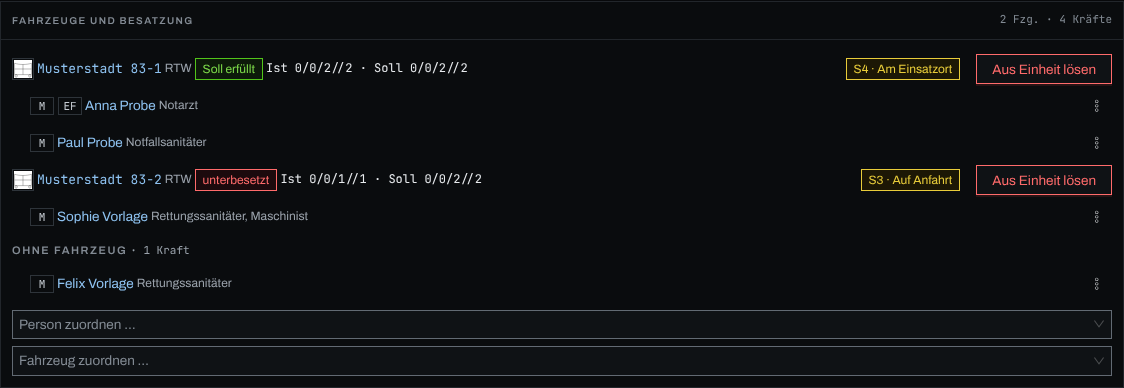
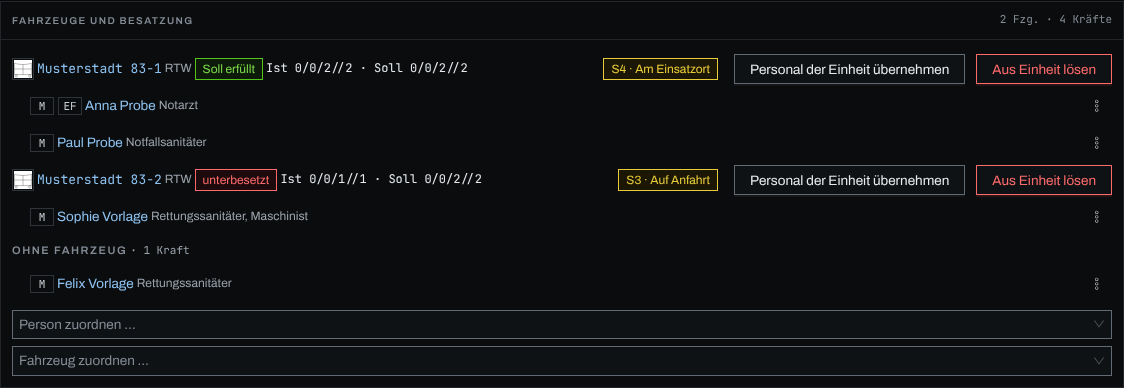
fix(einheit): Review-Befunde zur Übernahme im Paneel nachgezogen
- Nach dem Übernehmen räumt das Paneel einen alten Grund an den übernommenen Personen
  (`onUebernommen` am Dialog); fällt die Besatzung weg, schließt der Dialog und öffnet nicht von
  selbst wieder.
- Vitest: die Vorwahl zählt die sitzende Besatzung gegen das Soll, der Einheitsführer steht vorn.
- Gate 3 misst „Personal der Einheit übernehmen“ und die Abstände zu seinen Nachbarn; die
  Fokusverdeckung blendet den Devtools-Knopf aus, unter den das Menü der Person bei 390 px nun
  rollt, und verlangt einen klebenden Verdecker nur ab `md`.
- Bild „besatzung“ des Kapitels Einheiten neu erzeugt, Alt-Text und Ablauf genauer.

LLH-1267
Zunder: https://zunder.rubeen.dev/#/aufgabe/miwyxc08iu45hziuajh38l2y

Claude-Session: https://claude.ai/code/session_01G94TbRnePYDLx1196796N2

Changed region(s): [[0.5294, 0.1237, 0.8719, 0.2165], [0.5605, 0.433, 0.8719, 0.4948]]

diff --git a/frontend/src/pages/einheit/FahrzeugeBesatzung.test.tsx b/frontend/src/pages/einheit/FahrzeugeBesatzung.test.tsx
@@ -547,6 +547,50 @@ describe('FahrzeugeBesatzung · Personal der Einheit übernehmen (LLH-1267)', ()
     await waitFor(() => expect(bodies).toEqual([{ ep_ids: [7, 4] }]));
   });
 
+  it('die Vorwahl zählt die sitzende Besatzung gegen das Soll, der Einheitsführer steht vorn', async () => {
+    // 83-1: Soll 1/1/4, es sitzen F, UF, M. Frei sind ein Unterführer, Dora und der Führer der
+    // Einheit (ohne Position, als Mannschaft); drei Mannschaftsplätze sind offen, der UF-Platz nicht.
+    zeige({
+      e: einheit({ fuehrer_id: 8 }),
+      personal: [
+        ...PERSONAL,
+        person(7, 'Gerd Unter', { staerke_position: 'unterfuehrer' }),
+        person(8, 'Zora Leitung'),
+      ],
+    });
+    await userEvent.click(uebernehmenKnopf('83-1'));
+    const dialog = await screen.findByRole('dialog', { name: 'Personal der Einheit auf 83-1' });
+    expect(
+      within(dialog)
+        .getAllByRole('checkbox')
+        .map((c) => c.closest('label')?.textContent),
+    ).toEqual(['Zora Leitung', 'Gerd UnterUnterführer', 'Dora Ohne']);
+    expect(within(dialog).getByRole('checkbox', { name: /Zora Leitung/ })).toBeChecked();
+    expect(within(dialog).getByRole('checkbox', { name: /Gerd Unter/ })).not.toBeChecked();
+    expect(within(dialog).getByRole('checkbox', { name: /Dora Ohne/ })).toBeChecked();
+  });
+
+  it('nach dem Übernehmen ist ein alter Grund an der Person geräumt', async () => {
+    server.use(
+      http.post('/api/einsaetze/1/fahrzeuge/31/besatzung', () =>
+        HttpResponse.json({ error: 'Fahrzeug ist storniert' }, { status: 409 }),
+      ),
+      http.post(
+        '/api/einsaetze/1/fahrzeuge/30/besatzung',
+        () => new HttpResponse(null, { status: 204 }),
+      ),
+    );
+    zeige();
+    await userEvent.click(within(await oeffneMenue('Dora Ohne')).getByText('Auf 83-2'));
+    expect(
+      await within(personZeile('Dora Ohne')).findByText('Fahrzeug ist storniert'),
+    ).toBeVisible();
+    await userEvent.click(uebernehmenKnopf('83-1'));
+    const dialog = await screen.findByRole('dialog', { name: 'Personal der Einheit auf 83-1' });
+    await userEvent.click(within(dialog).getByRole('button', { name: 'Übernehmen' }));
+    await waitFor(() => expect(within(paneel()).queryByText('Fahrzeug ist storniert')).toBeNull());
+  });
+
   it('ohne freie Kräfte der Einheit gesperrt, der Grund steht daneben', () => {
     zeige({
       personal: PERSONAL.map((p) => (p.id === 4 ? { ...p, fahrzeug_id: 31 } : p)),

diff --git a/frontend/e2e/einheit-fixture.ts b/frontend/e2e/einheit-fixture.ts
@@ -96,7 +96,9 @@ export function kopfFelder(page: Page): { name: string; huelle: Locator; fokus: 
  * Menü der Person, die FMS-Wahl und „Aus Einheit lösen“ des Fahrzeugs und die beiden
  * Auswahlfelder, im Paneel „Material“ Lösen und Auswahl. `reihen` sind benachbarte Ziele (auf
  * einer Zeile oder Zeile über Zeile), `stapel` je Paneel die letzte Zeilenaktion über dem ersten
- * Auswahlfeld.
+ * Auswahlfeld. `uebernehmen` ist „Personal der Einheit übernehmen“ (LLH-1267): hier gesperrt, weil
+ * die einzige Kraft der Einheit schon sitzt; es hält die Trefffläche, ist aber kein Tabulatorstopp
+ * und steht deshalb nicht unter `ziele`.
  */
 export function zuordnungsZiele(page: Page, namen: { personal: string; fahrzeug: string }) {
   const besatzung = zuordnungsKarte(page, 'Fahrzeuge und Besatzung');
@@ -108,6 +110,9 @@ export function zuordnungsZiele(page: Page, namen: { personal: string; fahrzeug:
   const fahrzeugLoesen = fahrzeugZeile.getByRole('button', {
     name: 'Aus Einheit lösen',
     exact: true,
+  });
+  const uebernehmen = fahrzeugZeile.getByRole('button', {
+    name: 'Personal der Einheit übernehmen',
   });
   const personMenue = besatzung.getByRole('button', {
     name: `Aktionen zu Person ${namen.personal}`,
@@ -123,6 +128,7 @@ export function zuordnungsZiele(page: Page, namen: { personal: string; fahrzeug:
       'xpath=ancestor::*[contains(concat(" ", normalize-space(@class), " "), " ant-select ")][1]',
     );
   return {
+    uebernehmen,
     ziele: [
       { name: 'Person: Aktionen', ziel: personMenue, fokus: personMenue },
       { name: 'Fahrzeug: Status', ziel: fmsStatus, fokus: fmsStatus },
@@ -138,7 +144,8 @@ export function zuordnungsZiele(page: Page, namen: { personal: string; fahrzeug:
       { name: 'Materialzeile', zeile: material.locator('[data-lfh="material-am-ort-zeile"]') },
     ],
     reihen: [
-      [fmsStatus, fahrzeugLoesen],
+      [fmsStatus, uebernehmen],
+      [uebernehmen, fahrzeugLoesen],
       [huelle(personZuordnen), huelle(fahrzeugZuordnen)],
       // Zeile über Zeile: Funkrufname über dem Namen der Person, Lösen über ihrem Menü.
       [

diff --git a/frontend/e2e/gate3-trefflaeche.spec.ts b/frontend/e2e/gate3-trefflaeche.spec.ts
@@ -429,7 +429,8 @@ test('Einheit: Zeilenauslöser und Zuordnungszeilen halten 30 / 48 / 72 px und d
     const main = page.getByRole('main');
     const ziele = kopfFelder(page).map(({ name, huelle }) => ({ name, ziel: huelle }));
     const zuordnung = zuordnungsZiele(page, namen);
-    // Nachbarn auf einer Zeile: FMS-Wahl und rotes „Aus Einheit lösen“, die beiden Auswahlfelder.
+    // Nachbarn auf einer Zeile: FMS-Wahl, „Personal der Einheit übernehmen“ und rotes „Aus
+    // Einheit lösen“, die beiden Auswahlfelder.
     const aktionsreihen: Locator[][] = [...zuordnung.reihen];
     let kleinsteZeile = Infinity;
     let kleinsterAbstand = Infinity;
@@ -438,6 +439,8 @@ test('Einheit: Zeilenauslöser und Zuordnungszeilen halten 30 / 48 / 72 px und d
       kleinsteZeile = Math.min(kleinsteZeile, await haeltStufe(zeile, soll, `${name} (${dichte})`));
     }
     for (const { name, ziel } of zuordnung.ziele) ziele.push({ name, ziel });
+    // Gesperrt (die Kraft sitzt schon) hält er dieselbe Stufe (LLH-1267).
+    ziele.push({ name: 'Personal der Einheit übernehmen', ziel: zuordnung.uebernehmen });
     if (dichte !== 'kompakt') {
       for (const { name, aktion, auswahl } of zuordnung.stapel) {
         // Abstand ab letzter wirklicher Trefffläche, nicht ab der gepolsterten Zeilenhülle.
@@ -458,8 +461,8 @@ test('Einheit: Zeilenauslöser und Zuordnungszeilen halten 30 / 48 / 72 px und d
       }),
     });
     // 12 Angaben (LLH-1134: „Telefon und weitere Verbindungen“ statt Kommunikationsmittel und
-    // Erreichbarkeit), 7 Zuordnungsziele, „Einheit auflösen“.
-    expect(ziele).toHaveLength(20);
+    // Erreichbarkeit), 7 Zuordnungsziele, „Personal der Einheit übernehmen“, „Einheit auflösen“.
+    expect(ziele).toHaveLength(21);
     let minimum = Infinity;
     const miss = async (name: string, ziel: Locator) => {
       const hoehe = await haeltStufe(ziel, soll, `${name} (${dichte})`);

diff --git a/frontend/e2e/fokus-verdeckung.spec.ts b/frontend/e2e/fokus-verdeckung.spec.ts
@@ -739,6 +739,10 @@ for (const viewport of [
     }) => {
       test.setTimeout(90_000);
       await page.setViewportSize(viewport);
+      // Mit „Personal der Einheit übernehmen“ in der Fahrzeugzeile (LLH-1267) rollt das Menü der
+      // Person bei 390 px an den unteren Rand, unter den Knopf der Devtools, den es nur im
+      // DEV-Build gibt.
+      await ohneDevtoolsKnopf(page);
       const { ziele } = await einheitFokusBereit(page, dichte);
       // Keine Speicherleiste mehr, die während der Eingabe im Bild klebt (LLH-1036).
       await expect(
@@ -757,7 +761,9 @@ for (const viewport of [
       if (viewport.width >= 992) {
         expect(befund.stoppsInRegion, 'der Lauf erreicht die Rail').toBeGreaterThan(0);
       }
-      expect(befund.fixierteKandidaten).toBeGreaterThan(0);
+      // Unter `md` rollt der Rahmen mit (LFH-952): ohne den Devtools-Knopf klebt dort nichts, die
+      // Prüfung läuft gegen keinen Verdecker. Ab `md` klebt der Kopf, und er muss gezählt sein.
+      if (viewport.width >= 768) expect(befund.fixierteKandidaten).toBeGreaterThan(0);
       expect(befund.verdeckt, befund.verdeckt.join('\n')).toEqual([]);
       test.info().annotations.push({
         type: 'messwert',

diff --git a/frontend/src/pages/einheit/FahrzeugeBesatzung.tsx b/frontend/src/pages/einheit/FahrzeugeBesatzung.tsx
@@ -182,6 +182,9 @@ export default function FahrzeugeBesatzung({
     fahrzeug: EinsatzFahrzeug;
     vorgewaehlt: number[];
   } | null>(null);
+  // Fällt die Besatzung weg (Freigabe entzogen), schließt der Dialog und öffnet nicht von selbst
+  // wieder, wenn sie zurückkommt.
+  if (!canBesatzung && uebernehmenFuer) setUebernehmenFuer(null);
   const markPending = (key: string, on: boolean) =>
     setPending((prev) => {
       const next = new Set(prev);
@@ -550,12 +553,16 @@ export default function FahrzeugeBesatzung({
         content
       )}
       {children}
-      {personal && (
+      {canBesatzung && personal && (
         <BesatzungUebernehmenDialog
           einsatzId={einsatzId}
           auftrag={uebernehmenFuer}
           personal={personal}
           fuehrerId={einheit.fuehrer_id ?? null}
+          // Ein alter Grund an einer Person gilt bis zum nächsten Absenden, auch über den Dialog.
+          onUebernommen={(epIds) => {
+            for (const epId of epIds) personErrors.beginne(epId);
+          }}
           onSchliessen={() => setUebernehmenFuer(null)}
         />
       )}

diff --git a/frontend/src/kraefte/BesatzungUebernehmenDialog.tsx b/frontend/src/kraefte/BesatzungUebernehmenDialog.tsx
@@ -25,6 +25,8 @@ export interface BesatzungUebernehmenDialogProps {
   personal: readonly EinsatzPersonal[];
   /** Führer der Einheit des Fahrzeugs, nur mit Freigabe `einheiten` bekannt. */
   fuehrerId: number | null;
+  /** Nach dem Übernehmen, mit den zugeordneten Kräften: der Aufrufer räumt etwa ihre Zeilengründe. */
+  onUebernommen?: (epIds: readonly number[]) => void;
   onSchliessen: () => void;
 }
 
@@ -48,6 +50,7 @@ export default function BesatzungUebernehmenDialog({
   auftrag,
   personal,
   fuehrerId,
+  onUebernommen,
   onSchliessen,
 }: BesatzungUebernehmenDialogProps) {
   const qc = useQueryClient();
@@ -99,6 +102,7 @@ export default function BesatzungUebernehmenDialog({
         einsatzKeys.etb(einsatzId),
       ])
         void qc.invalidateQueries({ queryKey: key });
+      onUebernommen?.(v.epIds);
     },
   });
   const gruende = gruendeJeKraft(mutation.error, 'personal');

diff --git a/frontend/e2e/doku-bilder/einheiten.bilder.ts b/frontend/e2e/doku-bilder/einheiten.bilder.ts
@@ -28,7 +28,8 @@ import {
  *   zeichen.png         frontend/src/pages/einheit/EinheitZeichenPaneel.tsx (Paneel „Taktisches
  *                       Zeichen“ mit offener Zeile „Organisation“)
  *   besatzung.png       frontend/src/pages/einheit/FahrzeugeBesatzung.tsx (Paneel „Fahrzeuge und
- *                       Besatzung“: Fahrzeugzeilen mit FMS-Status und Besatzung, Personen mit
+ *                       Besatzung“: Fahrzeugzeilen mit FMS-Status, Besatzung und „Personal der
+ *                       Einheit übernehmen“, Personen mit
  *                       Marken und Menü, „Ohne Fahrzeug“; frontend/src/kraefte/KraeftebaumZelle.tsx,
  *                       frontend/src/pages/einheit/ZuordnenAuswahl.tsx)
  *   aufgeloest.png      frontend/src/kraefte/EntlassenBlock.tsx (Block unter der Gliederung)

diff --git a/docs/anwender/kapitel/einheiten.md b/docs/anwender/kapitel/einheiten.md
@@ -129,16 +129,17 @@ Für Einsatzleitung und Führungspersonal:
    Soll, mit „unterbesetzt“ oder „Soll erfüllt“, und wer davon aus einer anderen Einheit oder
    ohne Einheit mitfährt.
 
-   ![Paneel „Fahrzeuge und Besatzung“ der Rettungsstaffel mit zwei RTW, je mit FMS-Status, Besatzung Ist und Soll und den Personen darauf, Anna Probe als Einheitsführerin, einer Kraft unter „Ohne Fahrzeug“ und den Auswahlfeldern „Person zuordnen …“ und „Fahrzeug zuordnen …“](../bilder/einheiten/besatzung.png)
+   ![Paneel „Fahrzeuge und Besatzung“ der Rettungsstaffel mit zwei RTW, je mit FMS-Status, Besatzung Ist und Soll, „Personal der Einheit übernehmen“ und den Personen darauf, Anna Probe als Einheitsführerin, einer Kraft unter „Ohne Fahrzeug“ und den Auswahlfeldern „Person zuordnen …“ und „Fahrzeug zuordnen …“](../bilder/einheiten/besatzung.png)
 
 5. Im selben Menü setzt „Als Einheitsführer“ die Person als Einheitsführer, „Vom Fahrzeug
    lösen“ nimmt sie vom Fahrzeug und lässt sie in der Einheit, „Aus Einheit lösen“ löst sie aus
    der Einheit.
 6. Mehrere Personen auf einmal setzt „Personal der Einheit übernehmen“ in der Zeile des
    Fahrzeugs: derselbe Dialog wie in der [Fahrzeugliste](fahrzeuge.md), mit den Kräften der
-   Einheit unter „Ohne Fahrzeug“, angehakt bis zur Soll-Stärke. „Übernehmen“ setzt alle gewählten
-   in einem Schritt auf das Fahrzeug. Ist der Knopf gesperrt, steht daneben „keine freien Kräfte
-   der Einheit“.
+   Einheit, die auf keinem Fahrzeug sitzen, angehakt bis zur Soll-Stärke, ohne Soll alle.
+   „Übernehmen“ setzt alle gewählten in einem Schritt auf das Fahrzeug. Ist der Knopf gesperrt,
+   steht daneben „keine freien Kräfte der Einheit“; wer unter „Ohne Fahrzeug“ mit „fährt auf …“
+   steht, sitzt schon auf einem Fahrzeug einer anderen Einheit.
 7. Den FMS-Status eines Fahrzeugs am Status in seiner Zeile wählen; „Aus Einheit lösen“ daneben
    löst das Fahrzeug aus der Einheit. Gelöste Kräfte bleiben im Einsatz, nur ohne Einheit.
 
